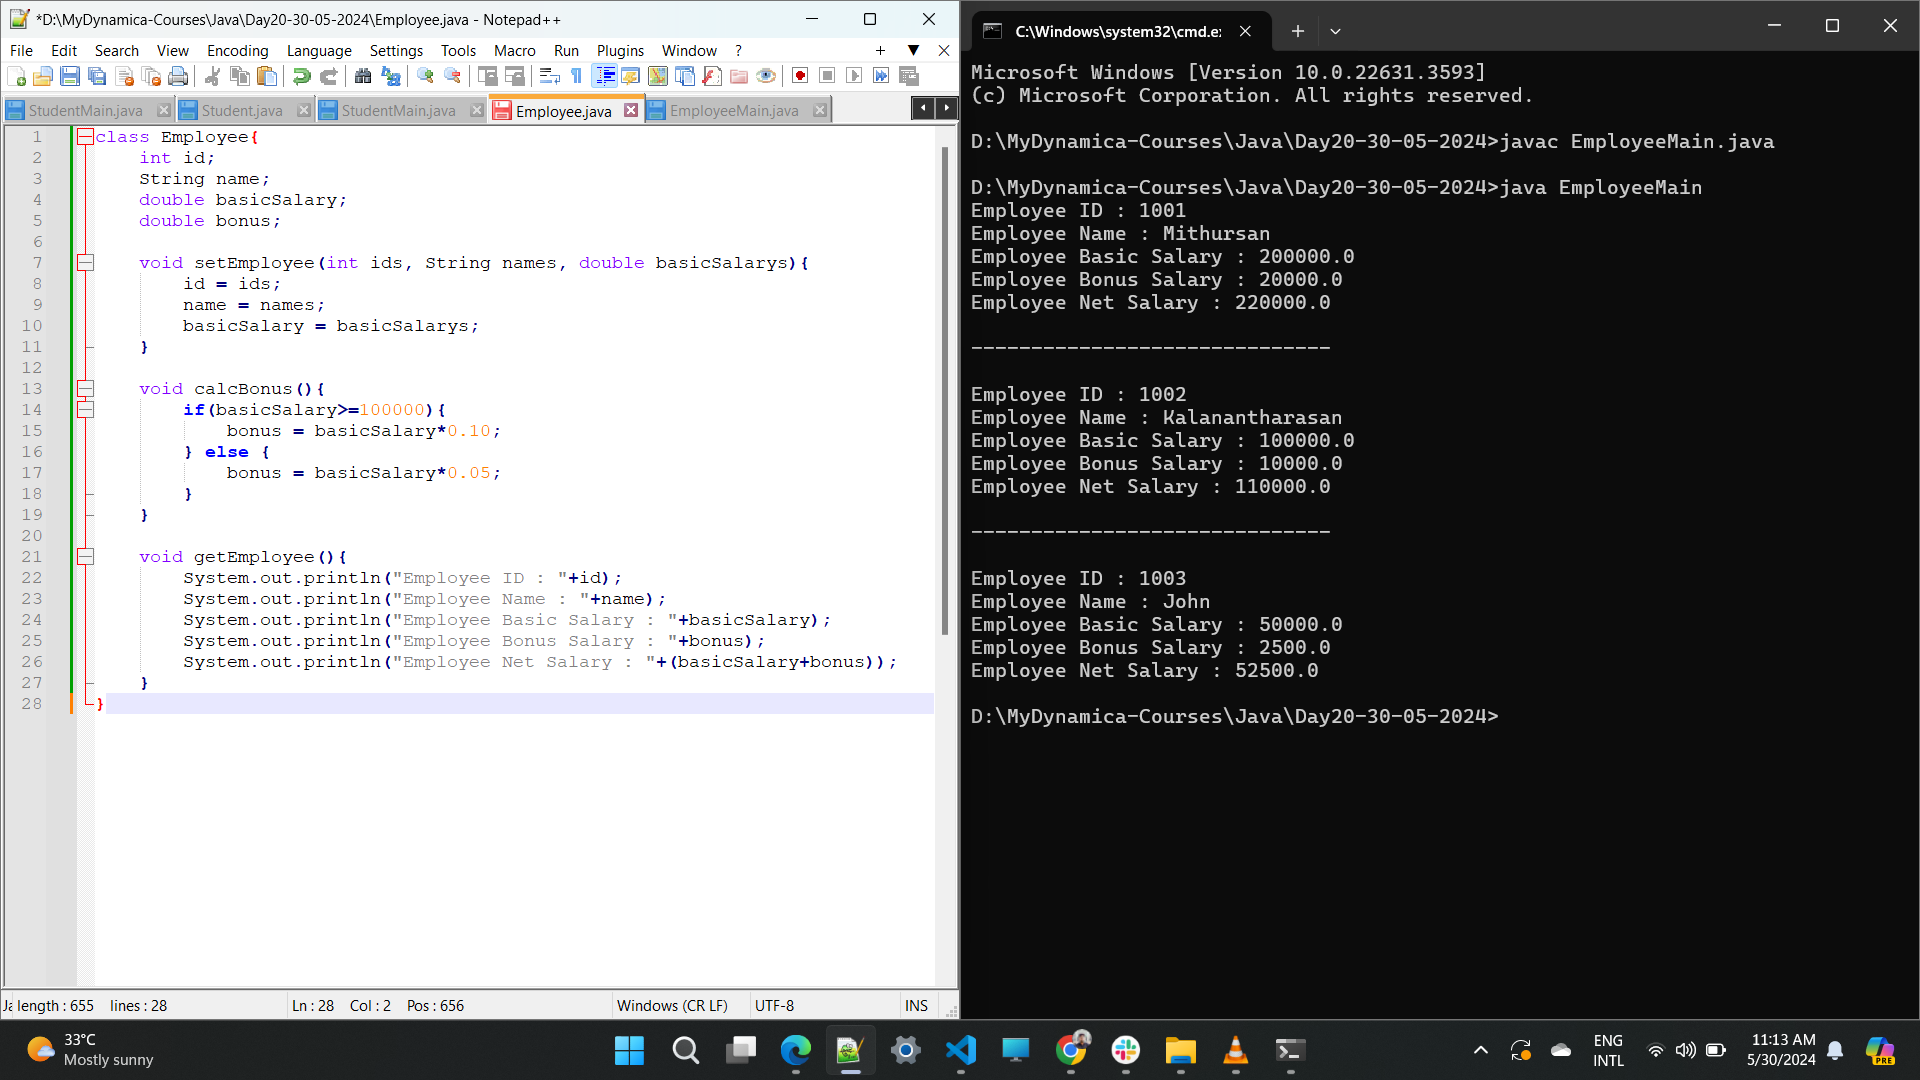
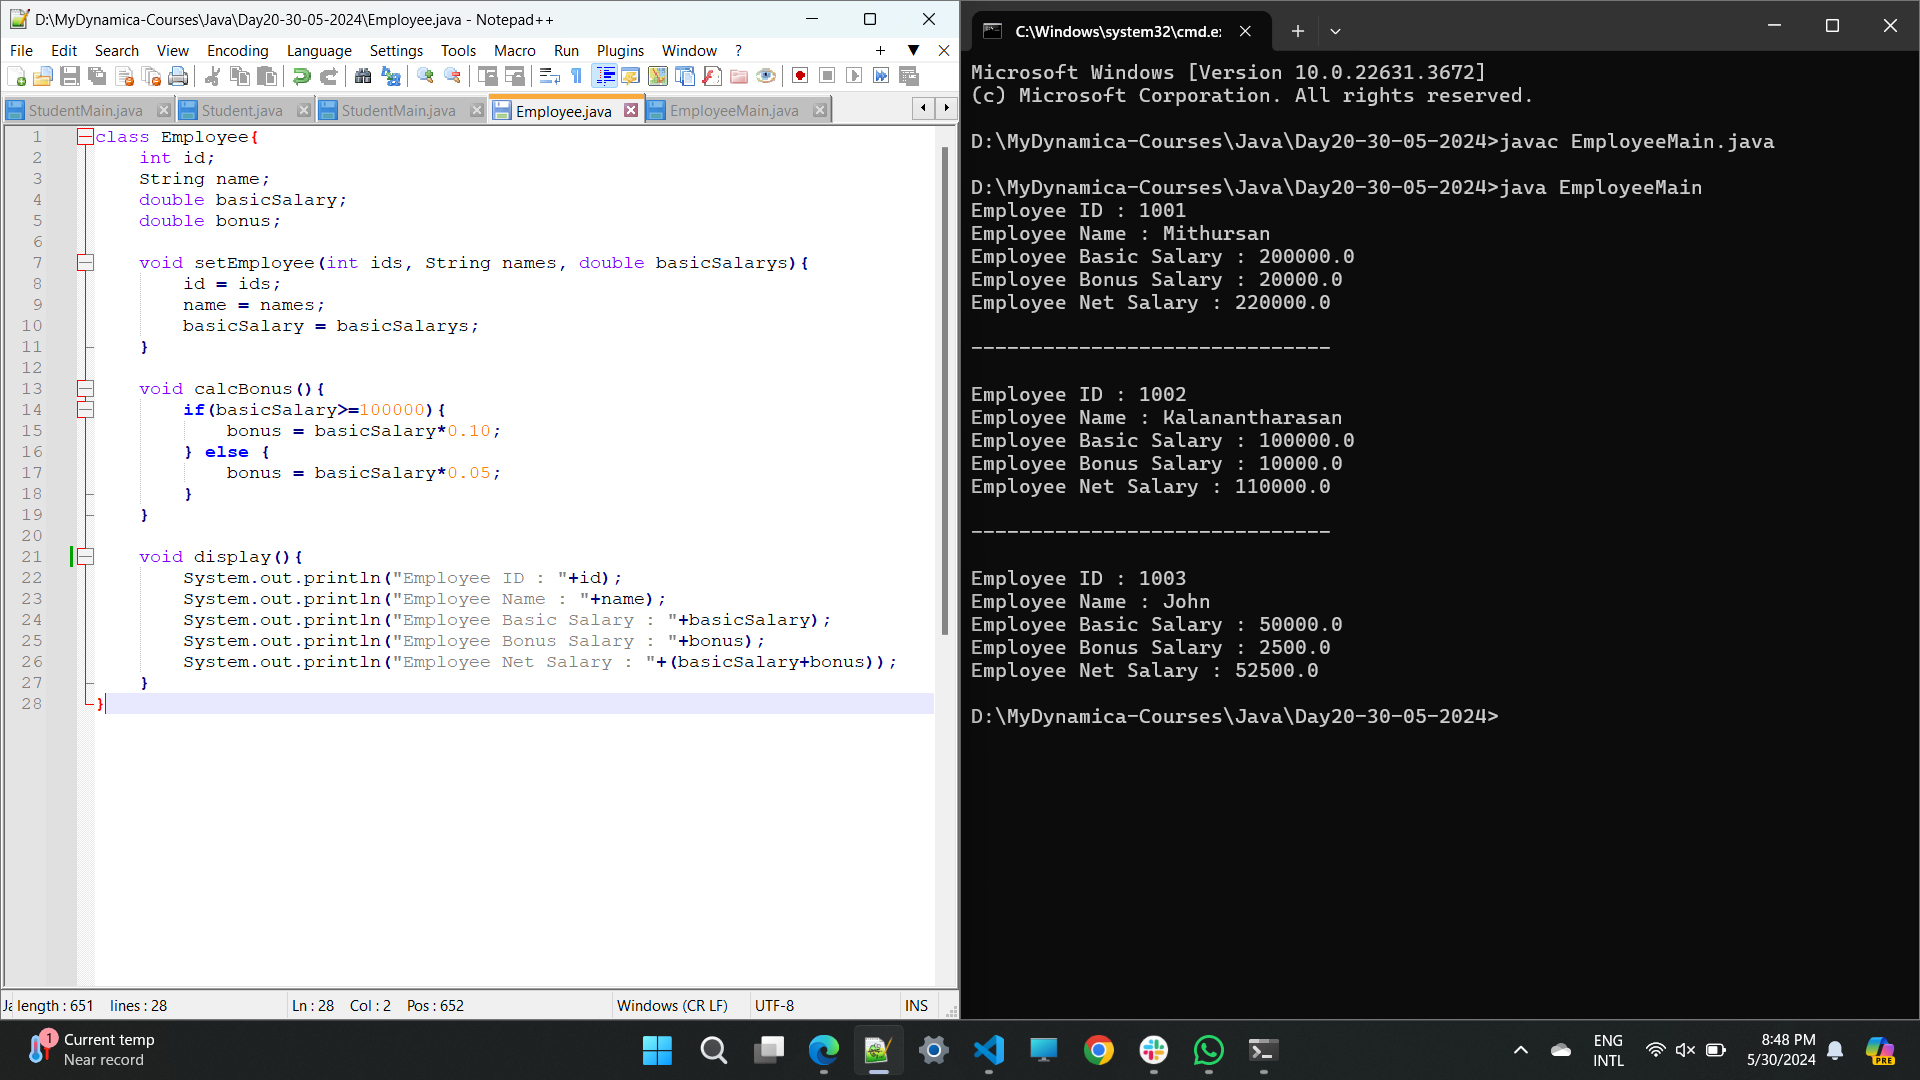
31.05.2024

diff --git a/Day21-31-05-2024/EmployeeMain.java b/Day21-31-05-2024/EmployeeMain.java
@@ -1,8 +1,7 @@
 class EmployeeMain{
 	public static void main(String args[]){
 		
-		Employee obj1 = new Employee();
-		obj1.setEmployee(1001, "Mithursan", 200000.00);
+		Employee obj1 = new Employee(1001, "Mithursan", 200000.00);
 		obj1.calcBonus();
 		obj1.display();
 		
@@ -12,8 +11,7 @@ class EmployeeMain{
 		System.out.println();
 		
 		
-		Employee obj2 = new Employee();
-		obj2.setEmployee(1002, "Kalanantharasan", 100000.00);
+		Employee obj2 = new Employee(1002, "Kalanantharasan", 100000.00);
 		obj2.calcBonus();
 		obj2.display();
 		
@@ -23,8 +21,7 @@ class EmployeeMain{
 		System.out.println();
 		
 		
-		Employee obj3 = new Employee();
-		obj3.setEmployee(1003, "John", 50000.00);
+		Employee obj3 = new Employee(1003, "John", 50000.00);
 		obj3.calcBonus();
 		obj3.display();
 	}

diff --git a/Day21-31-05-2024/Employee.java b/Day21-31-05-2024/Employee.java
@@ -1,0 +1,28 @@
+class Employee{
+	int id;
+	String name;
+	double basicSalary;
+	double bonus;
+	
+	Employee(int id, String name, double basicSalary){
+		this.id = id;
+		this.name = name;
+		this.basicSalary = basicSalary;
+	}
+	
+	void calcBonus(){
+		if(this.basicSalary>=100000){
+			this.bonus = this.basicSalary*0.10;
+		} else {
+			this.bonus = this.basicSalary*0.05;
+		}
+	}
+	
+	void display(){
+		System.out.println("Employee ID : "+this.id);
+		System.out.println("Employee Name : "+this.name);
+		System.out.println("Employee Basic Salary : "+this.basicSalary);
+		System.out.println("Employee Bonus Salary : "+this.bonus);
+		System.out.println("Employee Net Salary : "+(this.basicSalary+this.bonus));
+	}
+}

diff --git a/Day21-31-05-2024/StudentMain.java b/Day21-31-05-2024/StudentMain.java
@@ -1,0 +1,21 @@
+class StudentMain{
+	public static void main(String args[]){
+		
+		Student obj1 = new Student(1001, "Leo");
+		//obj1.setStudent(1001, "Mithursan");
+		obj1.getStudent();
+		
+		
+		Student obj2 = new Student(1002, "Das");
+		//obj2.setStudent(1002, "Leo");
+		obj2.getStudent();
+		
+		
+		/*
+		Student obj3 = new Student();
+		//obj3.setStudent(1003, "Das");
+		obj3.getStudent();
+		*/
+		
+	}
+} 

diff --git a/Day21-31-05-2024/Student.java b/Day21-31-05-2024/Student.java
@@ -1,0 +1,21 @@
+class Student{
+	int id;
+	String name;
+	
+	/*
+	void setStudent(int id, String name){
+		this.id = id;
+		this.name = name;
+	}
+	*/
+	
+	Student(int id, String name){
+		this.id = id;
+		this.name = name;
+	}
+	
+	void getStudent(){
+		System.out.println("Student ID : "+this.id);
+		System.out.println("Student Name : "+this.name);
+	}
+}

diff --git a/Day20-30-05-2024/Employee.java b/Day20-30-05-2024/Employee.java
@@ -18,7 +18,7 @@ class Employee{
 		}
 	}
 	
-	void getEmployee(){
+	void display(){
 		System.out.println("Employee ID : "+id);
 		System.out.println("Employee Name : "+name);
 		System.out.println("Employee Basic Salary : "+basicSalary);
